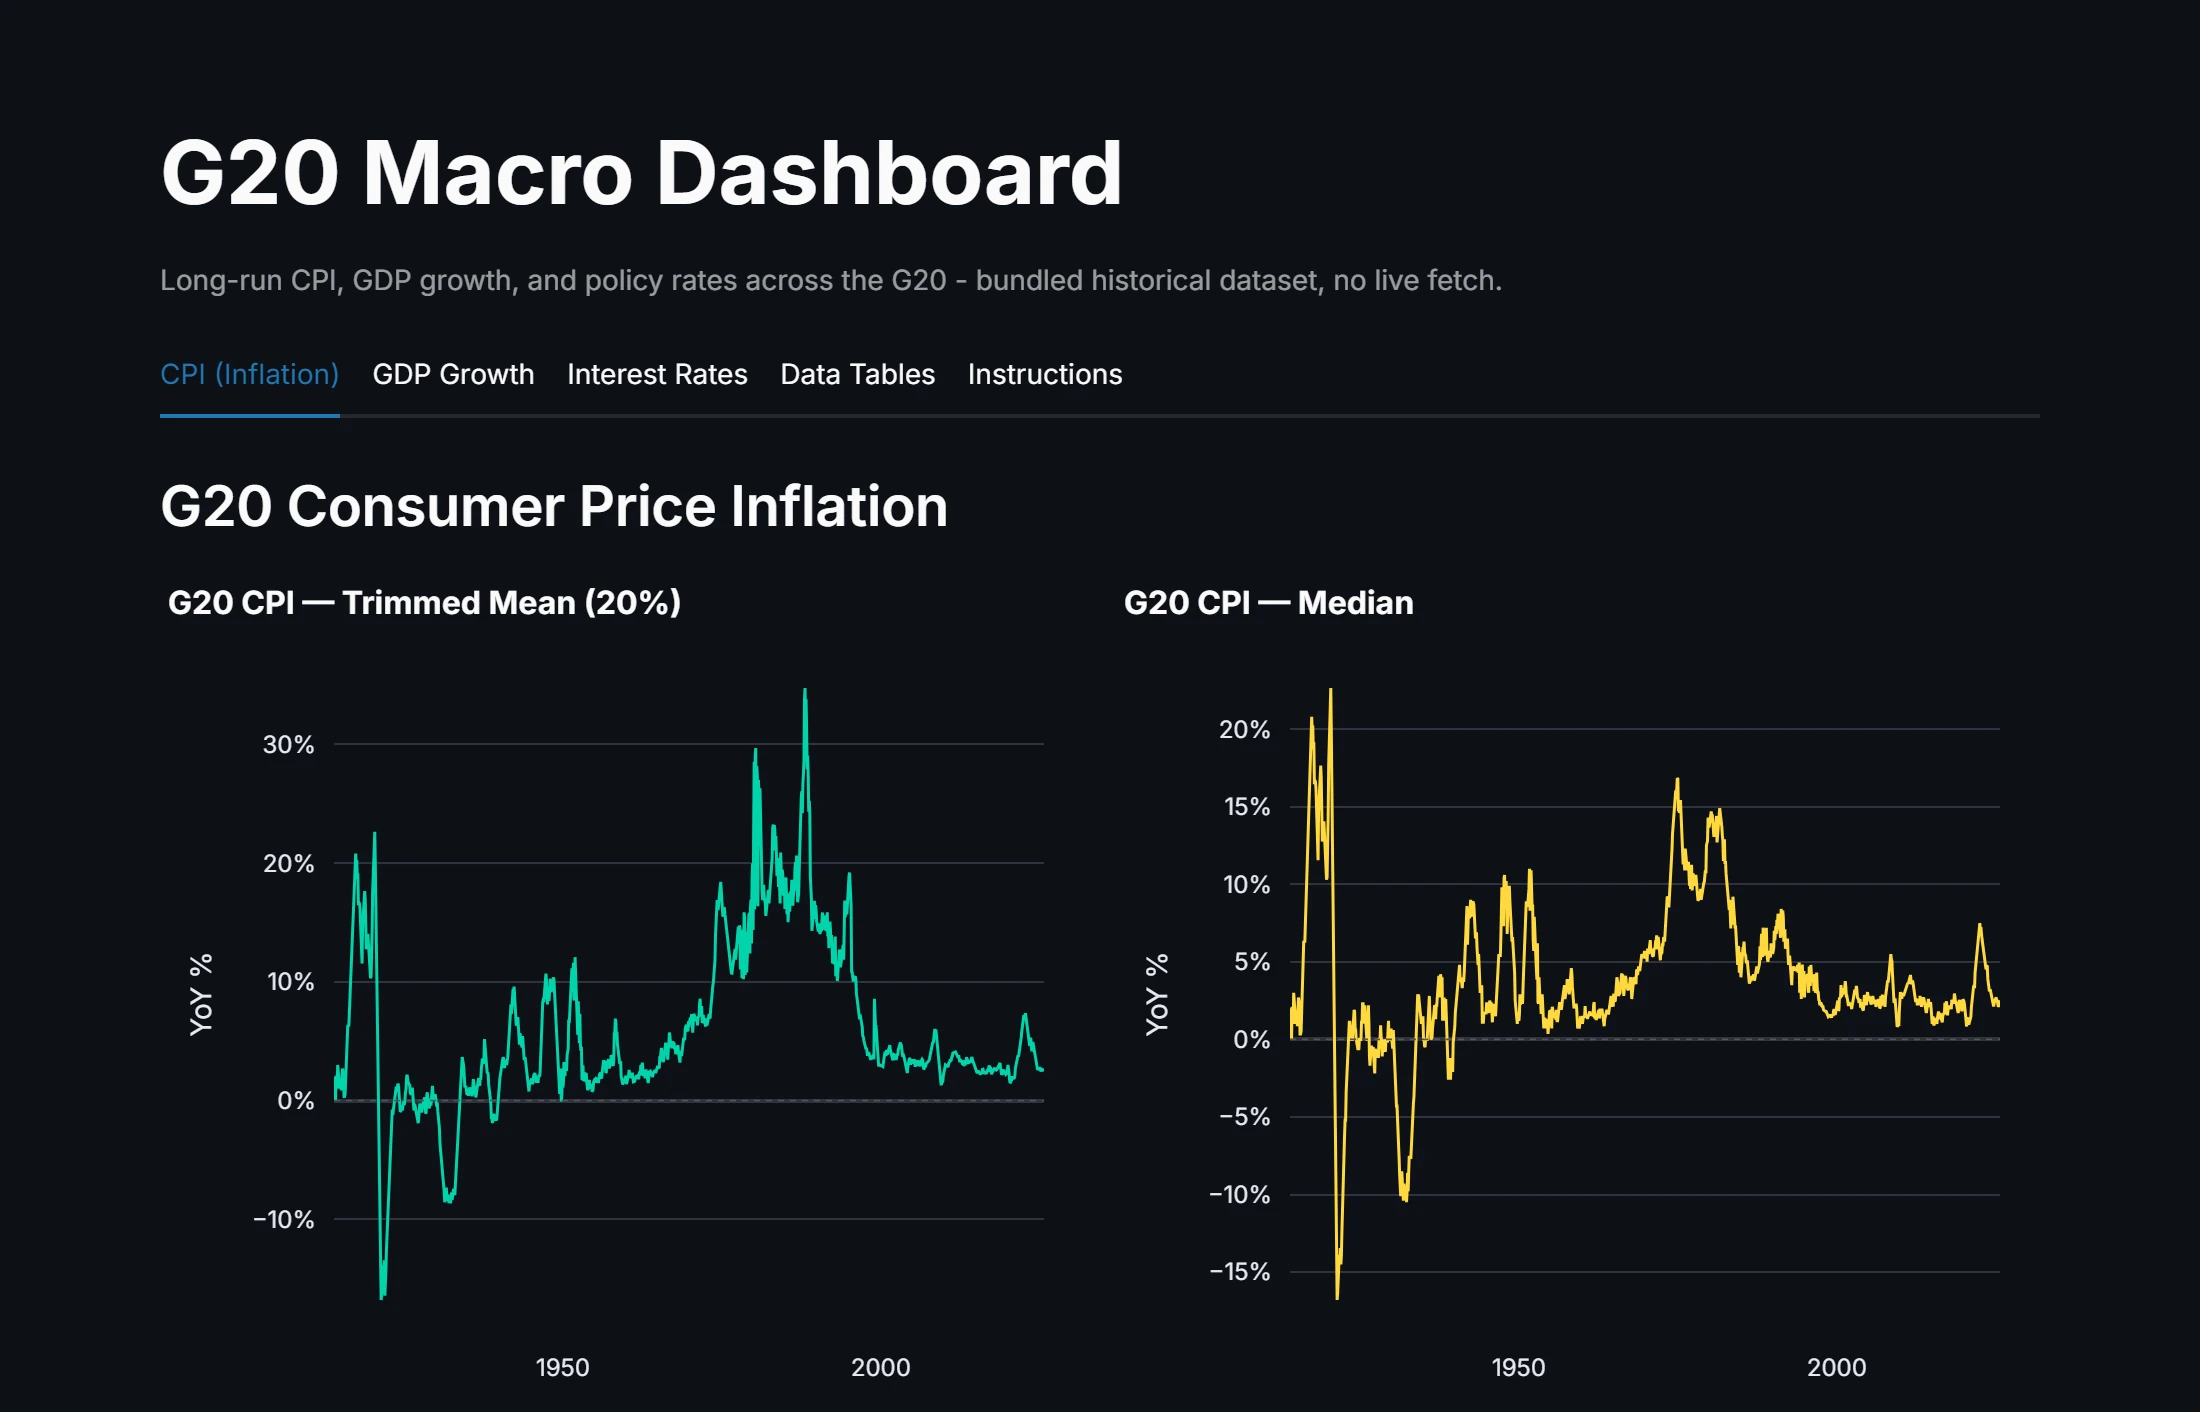
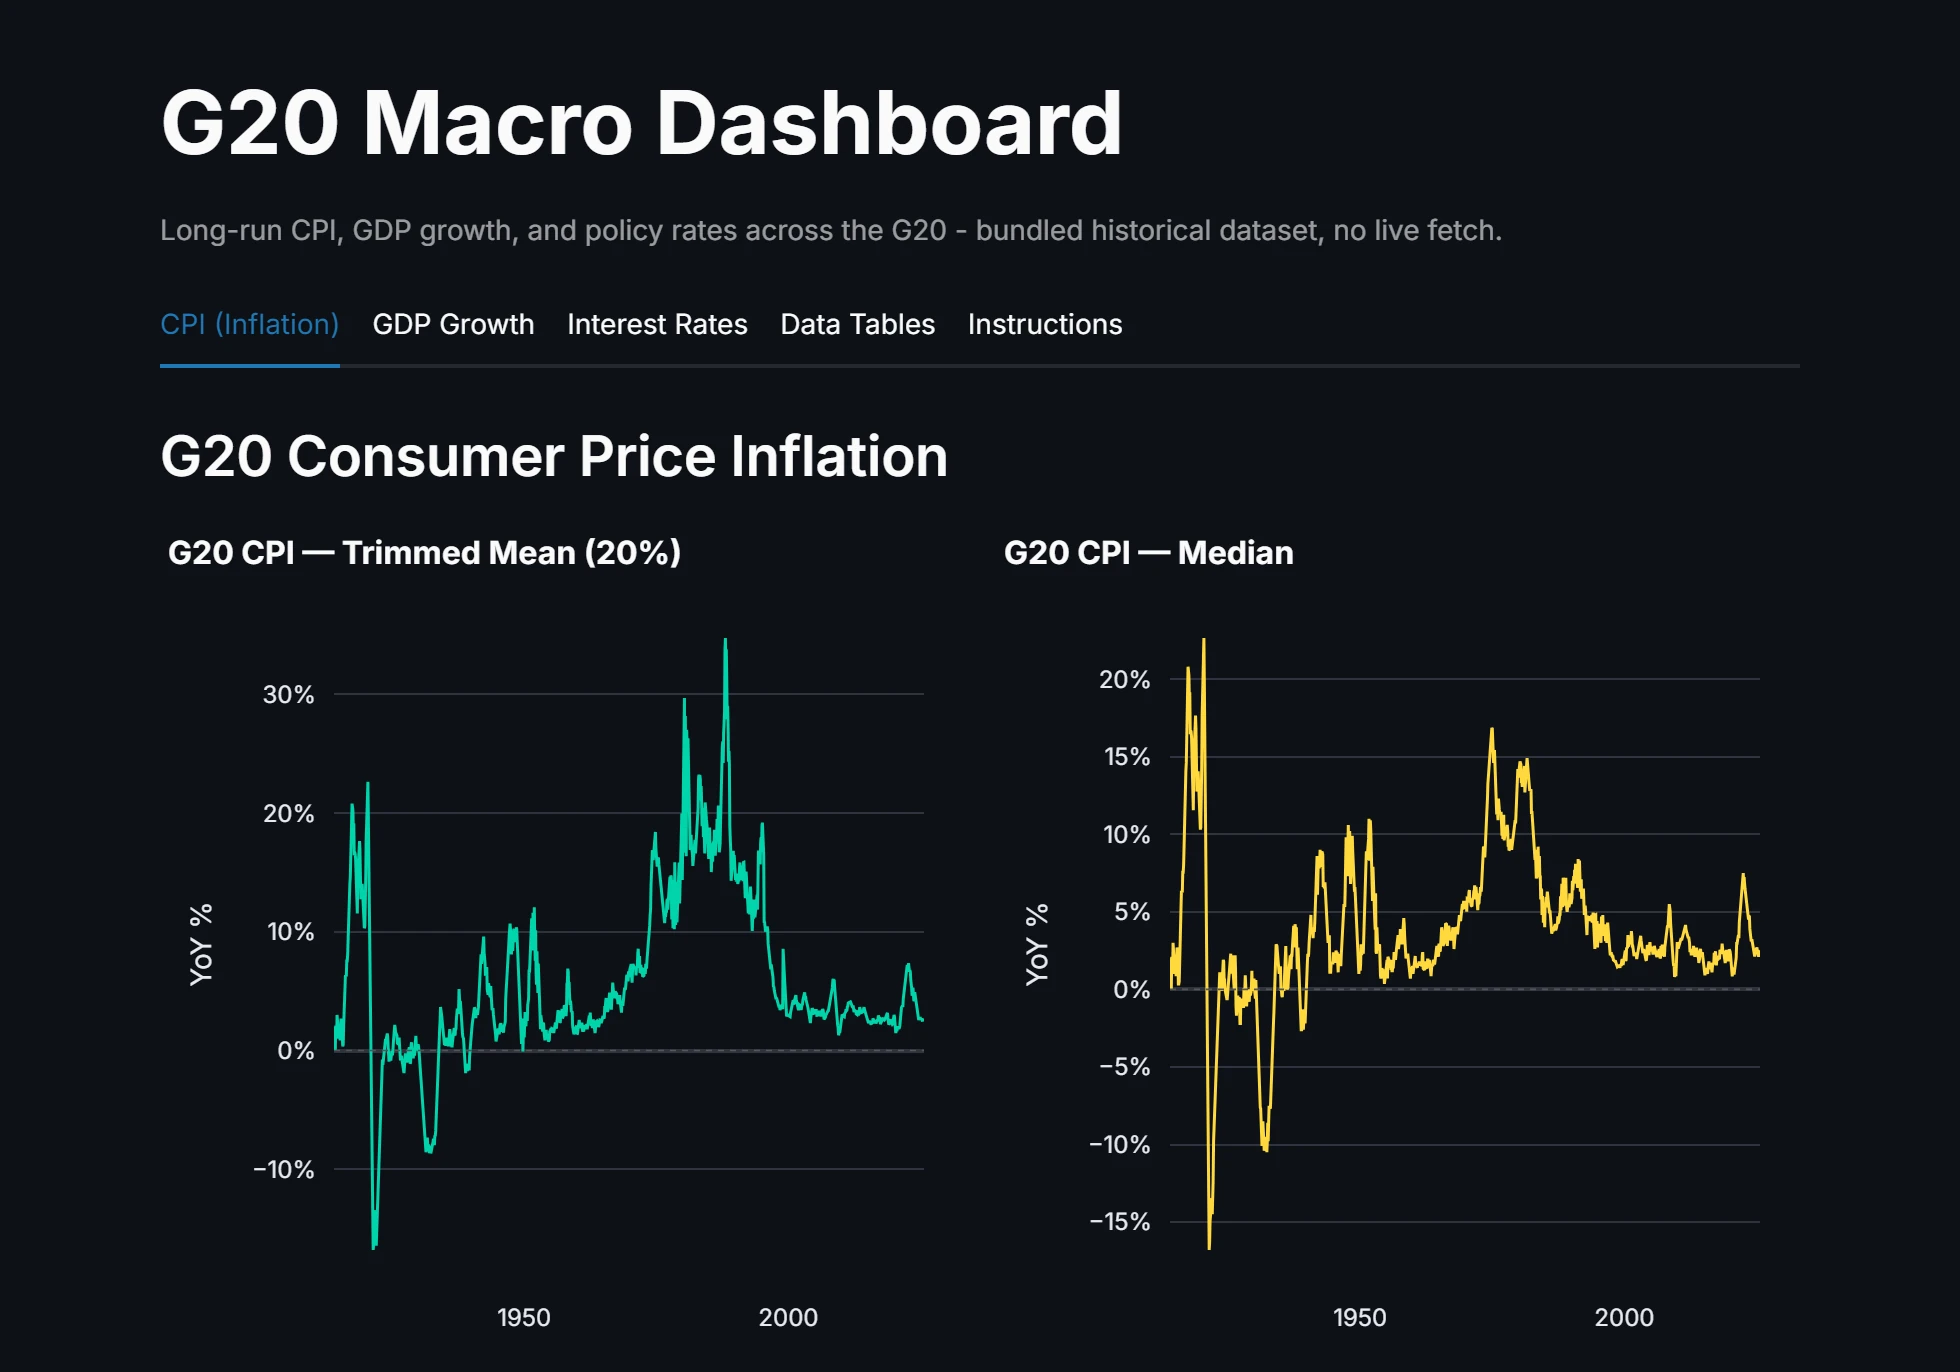
Vantage: shots re-cropped to one shape tight to the title; panel at its own height; module list as spec rows

diff --git a/vantage/index.html b/vantage/index.html
@@ -52,7 +52,7 @@
   .theme-toggle .dot { width: 8px; height: 8px; border-radius: 50%; background: var(--accent); }
   .back { color: var(--soft); text-decoration: none; font-size: 15px; white-space: nowrap; }
   .back:hover { color: var(--ink); }
-  .split { display: grid; grid-template-columns: 360px 1fr; gap: 2.2rem; align-items: stretch; }
+  .split { display: grid; grid-template-columns: 360px 1fr; gap: 2.2rem; align-items: start; }
   .panel { display: flex; flex-direction: column; background: var(--raised); border: 1px solid var(--edge);
     border-top: 3px solid var(--accent); border-radius: 6px 6px 18px 18px; padding: 1.7rem 1.6rem 1.4rem; }
   h1 { font-weight: 600; font-size: 2.7rem; line-height: 1; margin: 0 0 .7rem; letter-spacing: -.01em; }
@@ -66,17 +66,16 @@
   .dl:hover { filter: brightness(1.1); }
   .note { color: var(--faint); font-size: .78rem; text-align: center; margin: .55rem 0 1.4rem; }
   .spec { border-top: 1px solid var(--rule); }
-  .panel .spec { margin-top: auto; }
   .mods { margin-top: 2.6rem; }
   .mods h2 { margin: 0 0 1rem; }
-  .groups { display: grid; grid-template-columns: repeat(3, 1fr); gap: 1.4rem 2.2rem; }
-  .group { border-top: 1px solid var(--rule); padding-top: .7rem; font-size: .9rem; line-height: 1.5; }
-  .group .k { display: block; font-size: .8rem; margin-bottom: .25rem; }
+  .groups { border-top: 1px solid var(--rule); }
+  .group { display: grid; grid-template-columns: 120px 1fr; gap: 1rem; padding: .7rem 0;
+    border-bottom: 1px solid var(--rule); font-size: .9rem; line-height: 1.5; }
   .row { display: grid; grid-template-columns: 84px 1fr; gap: .8rem; padding: .6rem 0;
     border-bottom: 1px solid var(--rule); font-size: .86rem; line-height: 1.45; }
   .k { color: var(--faint); }
   .gallery { position: relative; }
-  .frame { position: relative; aspect-ratio: 16 / 11; background: #0e1117; border: 1px solid var(--edge);
+  .frame { position: relative; aspect-ratio: 10 / 7; background: #0e1117; border: 1px solid var(--edge);
     border-radius: 14px; overflow: hidden; touch-action: pan-y; }
   .shot { position: absolute; inset: 0; width: 100%; height: 100%; object-fit: contain; }
   .arr { position: absolute; top: 50%; transform: translateY(-50%); z-index: 1; appearance: none; cursor: pointer;
@@ -89,9 +88,8 @@
   .shot.in { animation: fade .22s ease-out; }
   @keyframes fade { from { opacity: 0; } to { opacity: 1; } }
   @media (prefers-reduced-motion: reduce) { .shot.in { animation: none; } }
-  @media (max-width: 900px) { .split { grid-template-columns: 1fr; }
-    .groups { grid-template-columns: repeat(2, 1fr); } }
-  @media (max-width: 560px) { .groups { grid-template-columns: 1fr; } }
+  @media (max-width: 900px) { .split { grid-template-columns: 1fr; } }
+  @media (max-width: 560px) { .group { grid-template-columns: 84px 1fr; gap: .8rem; } }
   @media (max-width: 560px) { .wrap { padding: 1.4rem 1rem 2.2rem; } .bar { margin-bottom: 1.6rem; } h1 { font-size: 2.3rem; } }
 </style>
 <script>/* Analytics, gated. Two kinds of visitor are not an audience: anyone who has opted out with ?nostats=1, and automation - navigator.webdriver is the one signal true for Playwright, Puppeteer and Selenium alike. Inline and dependency-free on purpose: served from the Worker, a bad deploy there would stop analytics on every site. See site-stats/beacon. */
@@ -117,10 +115,10 @@
     <main class="gallery" aria-roledescription="carousel" aria-label="Screenshots">
       <div class="frame">
         <button class="arr" id="prev" type="button" aria-label="Previous screenshot"><svg viewBox="0 0 16 16" aria-hidden="true"><path d="M10 3 5 8l5 5" fill="none" stroke="currentColor" stroke-width="1.8" stroke-linecap="round" stroke-linejoin="round"/></svg></button><button class="arr" id="next" type="button" aria-label="Next screenshot"><svg viewBox="0 0 16 16" aria-hidden="true"><path d="M6 3l5 5-5 5" fill="none" stroke="currentColor" stroke-width="1.8" stroke-linecap="round" stroke-linejoin="round"/></svg></button>
-      <img class="shot" src="g20.webp" alt="Vantage's G20 Macro Dashboard: trimmed-mean and median CPI across the G20" width="2200" height="1412">
-      <img class="shot" src="global-rates-monitor.webp" alt="Vantage's Global Rates Monitor: Australian growth, inflation, BBSW and swap rates" width="2200" height="1518" hidden>
-      <img class="shot" src="fx-volatility.webp" alt="Vantage's FX Volatility: AUDUSD 20-day realised volatility over ten years" width="2200" height="2094" hidden>
-      <img class="shot" src="implied-volatility.webp" alt="Vantage's Implied Volatility: the AAPL option vol surface by delta and tenor" width="2200" height="1684" hidden>
+      <img class="shot" src="g20.webp" alt="Vantage's G20 Macro Dashboard: trimmed-mean and median CPI across the G20" width="1960" height="1372">
+      <img class="shot" src="global-rates-monitor.webp" alt="Vantage's Global Rates Monitor: Australian growth, inflation, BBSW and swap rates" width="2120" height="1484" hidden>
+      <img class="shot" src="fx-volatility.webp" alt="Vantage's FX Volatility: AUDUSD 20-day realised volatility over ten years" width="2960" height="2072" hidden>
+      <img class="shot" src="implied-volatility.webp" alt="Vantage's Implied Volatility: the AAPL option vol surface by delta and tenor" width="2360" height="1652" hidden>
       </div>
     </main>
   </div>
